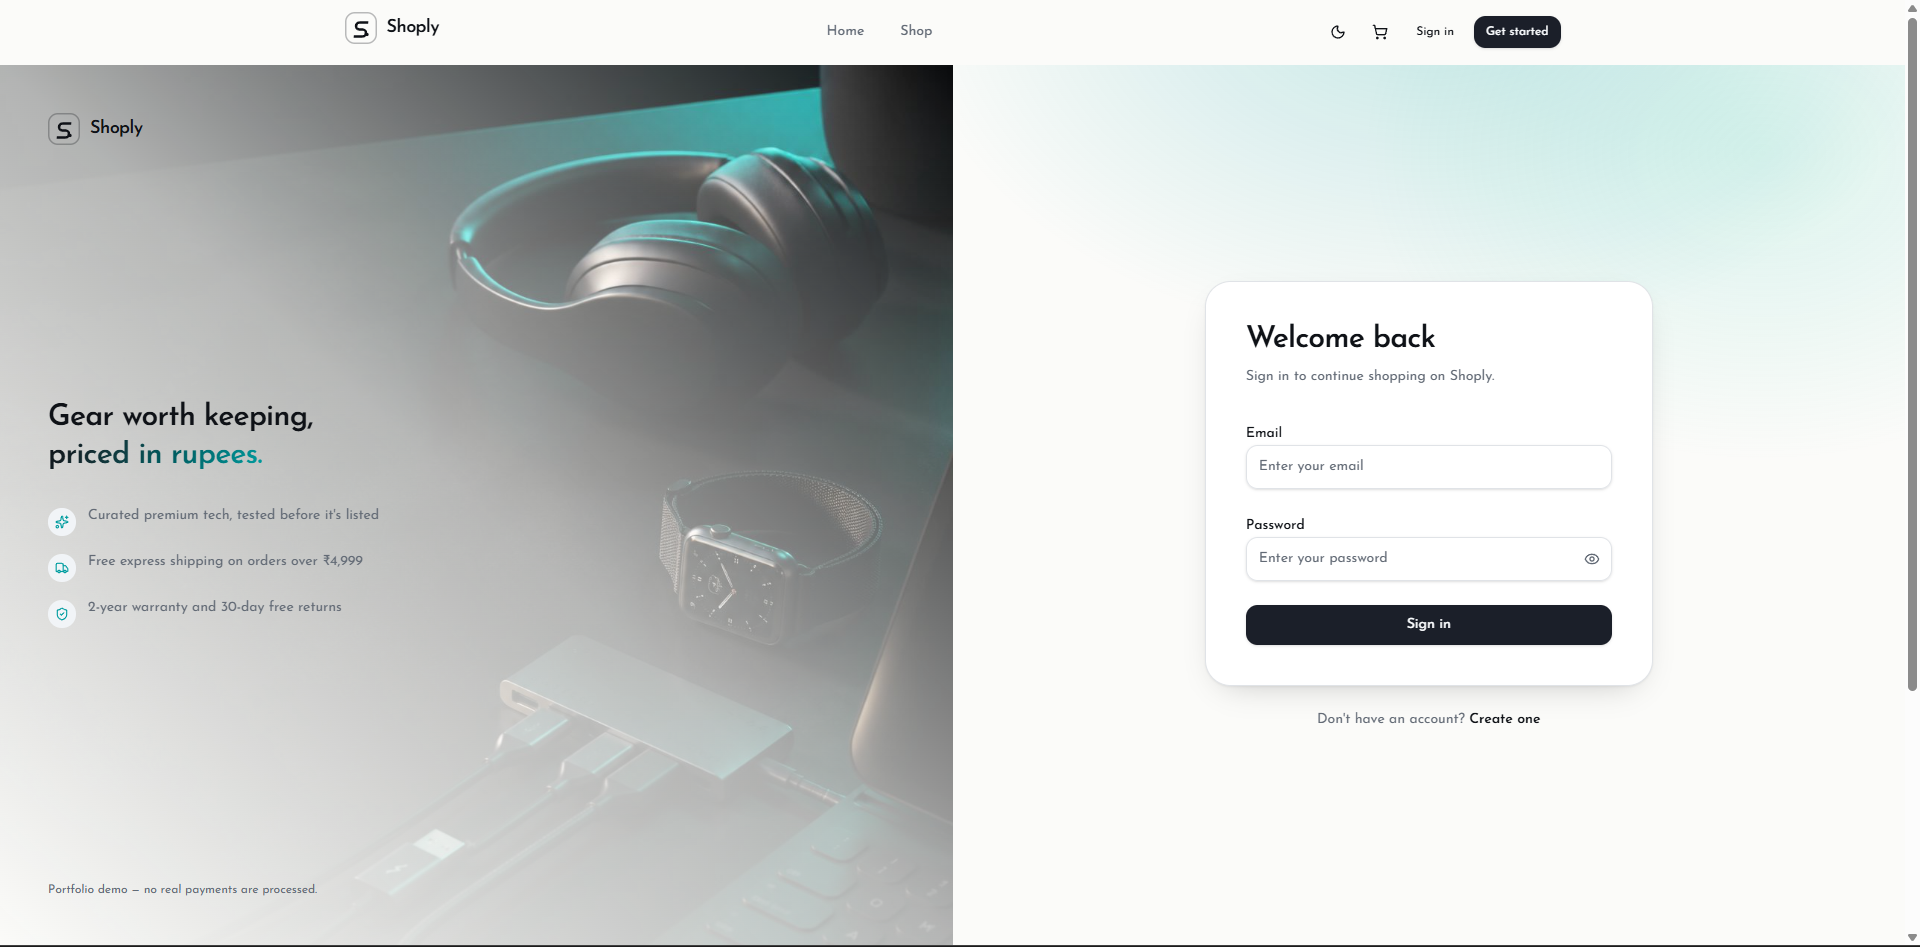
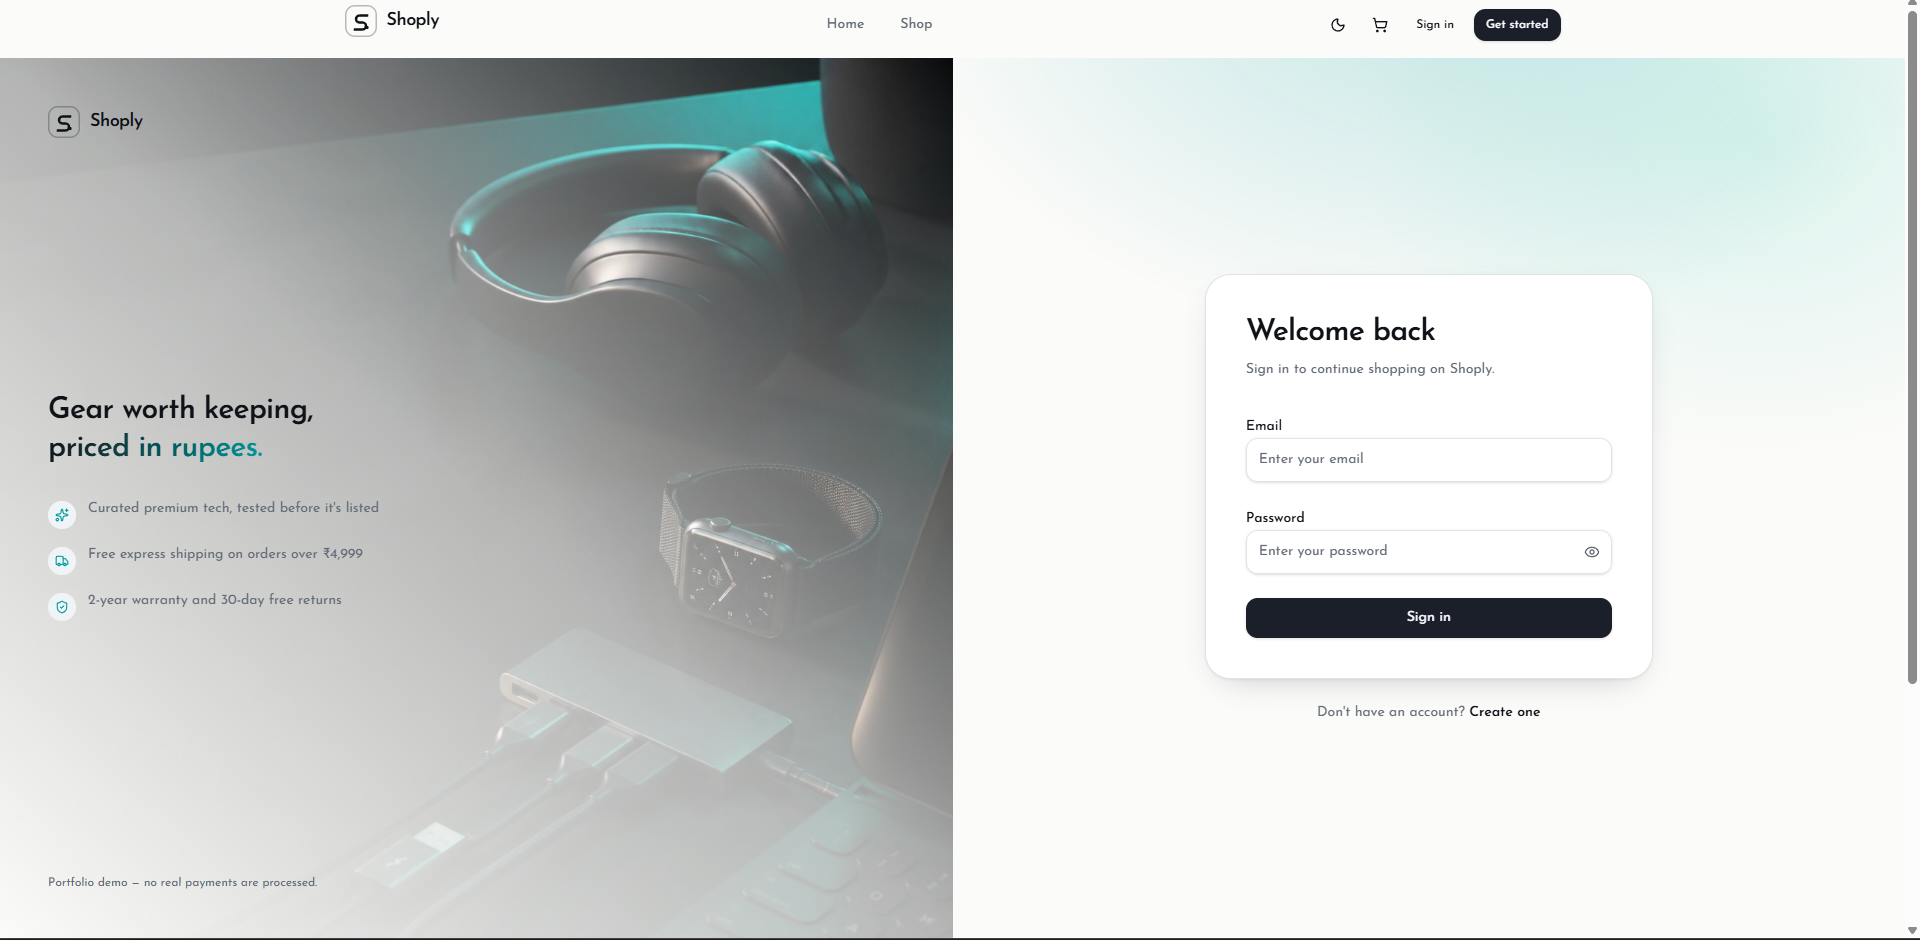
Change screenshot dimension

diff --git a/README.md b/README.md
@@ -35,8 +35,6 @@ Shoply includes user authentication, product browsing with pagination and filter
   <img src="screenshots/orders.png" width="45%" alt="Orders"/>
 </p>
 
-![Orders](screenshots/orders.png)
-
 ## Tech Stack
 
 ### Frontend
